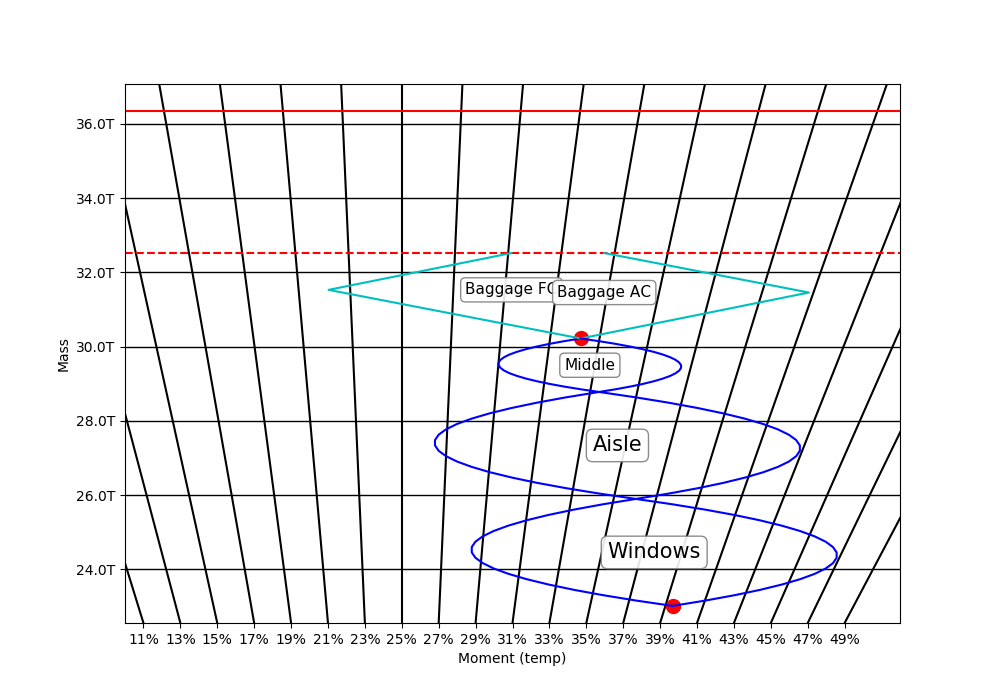
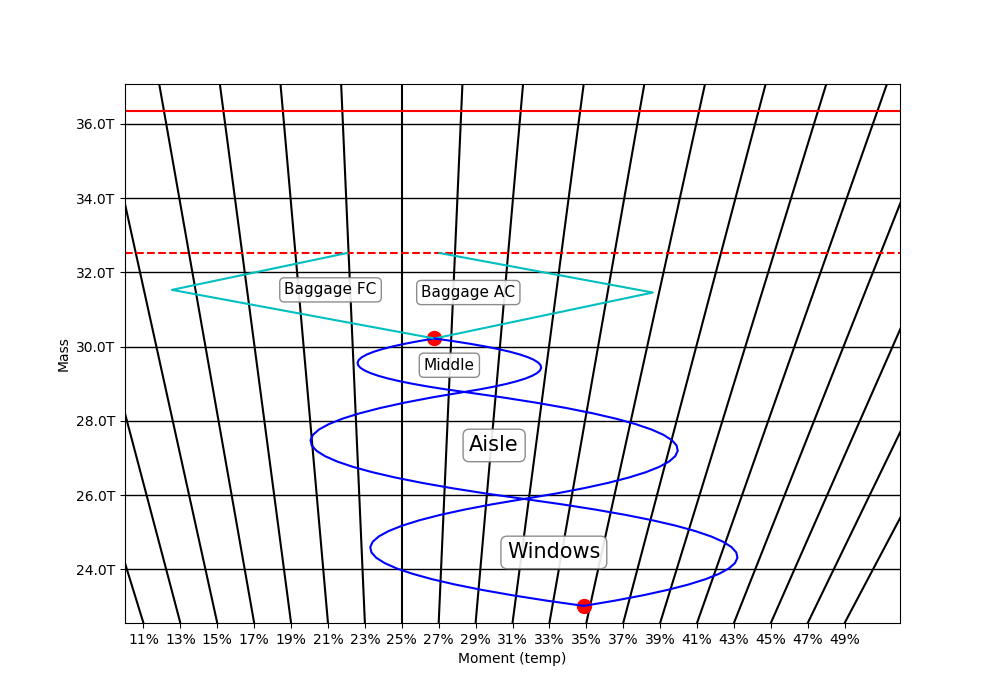
Update weith new data and reposition baggage labels

diff --git a/weights_and_balance.py b/weights_and_balance.py
@@ -258,7 +258,7 @@ def plotit(mac_range=[0.11, 0.51]):
     break_points["Hold FC Aft"] = curr_weight
 
     text_y = break_points["Hold FC Fwd"]
-    text_x = curr_mom
+    text_x = curr_mom - 200
     bbox_props = dict(boxstyle="round", fc="w", ec="0.5", alpha=0.9)
     ax.text(text_x, text_y, "Baggage FC", ha="center", va="center", size=11,
             bbox=bbox_props)
@@ -291,7 +291,7 @@ def plotit(mac_range=[0.11, 0.51]):
     break_points["Hold AC Fwd"] = curr_weight
 
     text_y = break_points["Hold AC Aft"]
-    text_x = curr_mom
+    text_x = curr_mom + 350
     bbox_props = dict(boxstyle="round", fc="w", ec="0.5", alpha=0.9)
     ax.text(text_x, text_y, "Baggage AC", ha="center", va="center", size=11,
             bbox=bbox_props)
